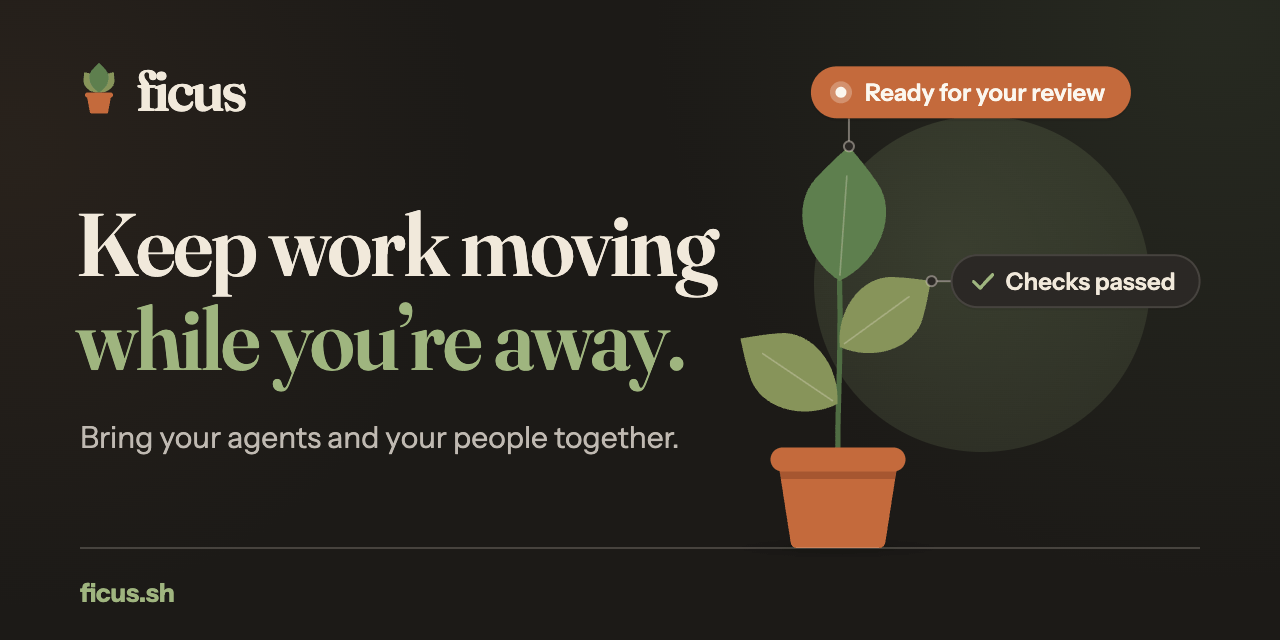
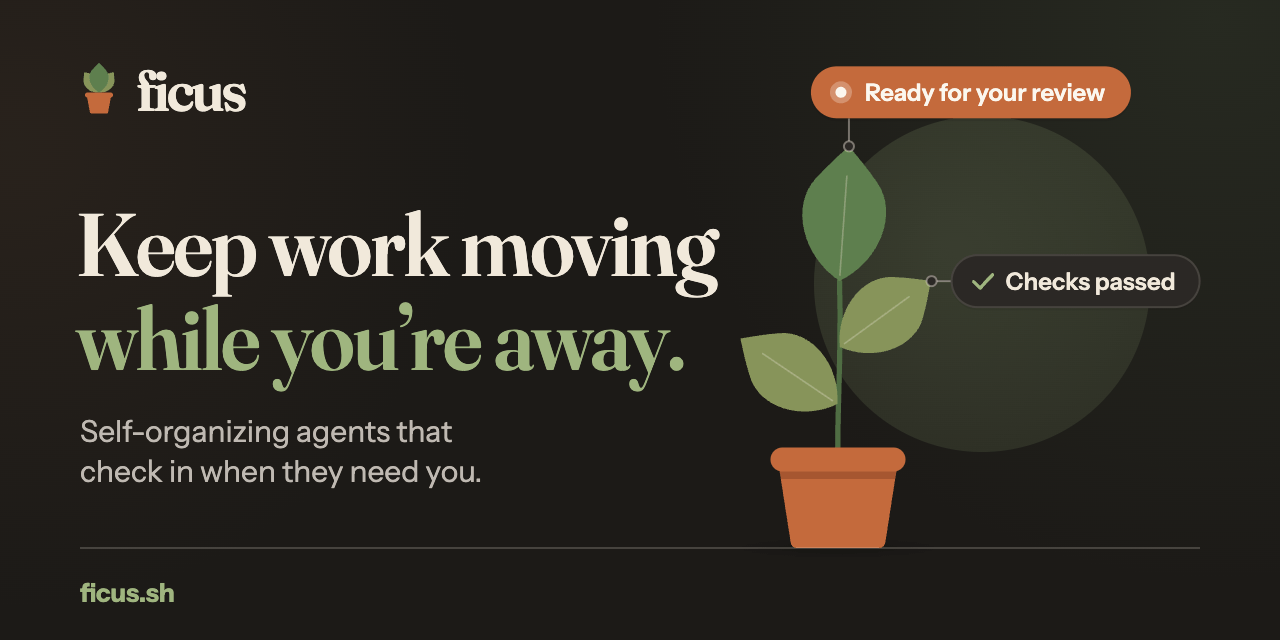
brand: change the card's supporting line to "Self-organizing agents that check in when they need you."
The longer line wraps to two balanced 30px lines so it clears the pot.
SUPPORTING_LINE in scripts/brand/social-preview.ts is the one place the
copy lives; the App Store art will share it. The web app's og:image:alt
and its pinning test follow the card.

Claude-Session: https://claude.ai/code/session_01K9GCazfYgMbqXgu3sqW1Da

Changed region(s): [[0.0625, 0.6562, 0.5312, 0.75]]

diff --git a/scripts/brand/social-preview.ts b/scripts/brand/social-preview.ts
@@ -42,7 +42,12 @@ export const CARD_FILES: Record<CardVariant, { svg: string; png: string }> = {
 export const PUBLISHED_COPIES = ['.github/social-preview.png', 'apps/web/public/social-preview.png'] as const
 
 export const HEADLINE = ['Keep work moving', 'while you’re away.'] as const
-export const SUPPORTING_LINE = 'Bring your agents and your people together.'
+/**
+ * The supporting line under the headline, shared by every generated piece of
+ * art that carries it (this card and the App Store search art in
+ * app-store.ts). Edit it here; `bun run brand:generate` re-renders them all.
+ */
+export const SUPPORTING_LINE = 'Self-organizing agents that check in when they need you.'
 export const CARD_ALT = `Ficus: ${HEADLINE.join(' ')} ${SUPPORTING_LINE}`
 
 /** The embedded font subsets: built by scripts/brand/subset-fonts.sh from brand/fonts/. */
@@ -164,12 +169,37 @@ function plantPoint(x: number, y: number): [number, number] {
   return [PLANT_X + (x - HERO_STEM_X) * PLANT_SCALE, GROUND_Y - (HERO_GROUND_Y - y) * PLANT_SCALE]
 }
 
+/** Baseline-to-baseline distance of the two supporting lines (30px type). */
+const SUPPORT_LEADING = 40
+
 const CHIP_HEIGHT = 52
 /** Chip widths fit their 24px Instrument Sans 600 labels (checked against Chrome renders). */
 const CHECKS_CHIP_WIDTH = 248
 const READY_CHIP_WIDTH = 320
 
 const num = (n: number) => Number(n.toFixed(2)).toString()
+
+/**
+ * Splits copy into `count` lines at word breaks, choosing the breaks that keep
+ * the longest line shortest (by character count), so wrapped copy stays
+ * balanced whatever the wording.
+ */
+export function balanceLines(text: string, count: number): string[] {
+  const words = text.split(/\s+/).filter(Boolean)
+  if (count <= 1 || words.length <= 1) return [words.join(' ')]
+  let best: string[] = [words.join(' ')]
+  let bestLongest = Number.POSITIVE_INFINITY
+  for (let i = 1; i < words.length; i++) {
+    const rest = balanceLines(words.slice(i).join(' '), count - 1)
+    const lines = [words.slice(0, i).join(' '), ...rest]
+    const longest = Math.max(...lines.map((line) => line.length))
+    if (longest < bestLongest) {
+      best = lines
+      bestLongest = longest
+    }
+  }
+  return best
+}
 
 function innerMarkup(svg: string): string {
   const match = svg.match(/<svg[^>]*>([\s\S]*)<\/svg>/)
@@ -251,6 +281,16 @@ function chips(p: Palette): string {
   </g>`
 }
 
+/** The supporting line, wrapped to two balanced lines so it clears the pot. */
+function supportingLines(p: Palette): string {
+  return balanceLines(SUPPORTING_LINE, 2)
+    .map(
+      (line, i) =>
+        `<text class="support" x="${MARGIN_X}" y="${442 + i * SUPPORT_LEADING}" fill="${p.muted}">${line}</text>`
+    )
+    .join('\n  ')
+}
+
 /** Builds one variant's card SVG. Pure: the same inputs always give the same bytes. */
 export async function buildSocialPreviewSvg(variant: CardVariant): Promise<string> {
   const p = PALETTES[variant]
@@ -300,7 +340,7 @@ export async function buildSocialPreviewSvg(variant: CardVariant): Promise<strin
   <text class="wordmark" x="${MARGIN_X + 56}" y="111" fill="${p.ink}">ficus</text>
   <text class="headline" x="${MARGIN_X - 4}" y="276" fill="${p.ink}">${HEADLINE[0]}</text>
   <text class="headline" x="${MARGIN_X - 4}" y="370" fill="${p.green}">${HEADLINE[1]}</text>
-  <text class="support" x="${MARGIN_X}" y="448" fill="${p.muted}">${SUPPORTING_LINE}</text>
+  ${supportingLines(p)}
   ${plant(p)}
   <path d="M${MARGIN_X} ${GROUND_Y} H${CARD_WIDTH - MARGIN_X}" stroke="${p.rule}" stroke-opacity="${p.ruleOpacity}" stroke-width="2"/>
   ${chips(p)}

diff --git a/apps/web/src/social-meta.test.ts b/apps/web/src/social-meta.test.ts
@@ -18,7 +18,7 @@ describe('social preview metadata', () => {
     expect(meta('property', 'og:image:height')).toBe('640')
     // Describes what the card (brand/social-preview.svg) actually says.
     expect(meta('property', 'og:image:alt')).toBe(
-      'Ficus: Keep work moving while you’re away. Bring your agents and your people together.'
+      'Ficus: Keep work moving while you’re away. Self-organizing agents that check in when they need you.'
     )
     expect(meta('property', 'og:title')).toBe('Ficus')
     expect(meta('name', 'twitter:card')).toBe('summary_large_image')

diff --git a/apps/web/index.html b/apps/web/index.html
@@ -87,7 +87,7 @@
     <meta property="og:image:height" content="640" />
     <meta
       property="og:image:alt"
-      content="Ficus: Keep work moving while you’re away. Bring your agents and your people together."
+      content="Ficus: Keep work moving while you’re away. Self-organizing agents that check in when they need you."
     />
     <meta name="twitter:card" content="summary_large_image" />
     <meta name="twitter:title" content="Ficus" />
